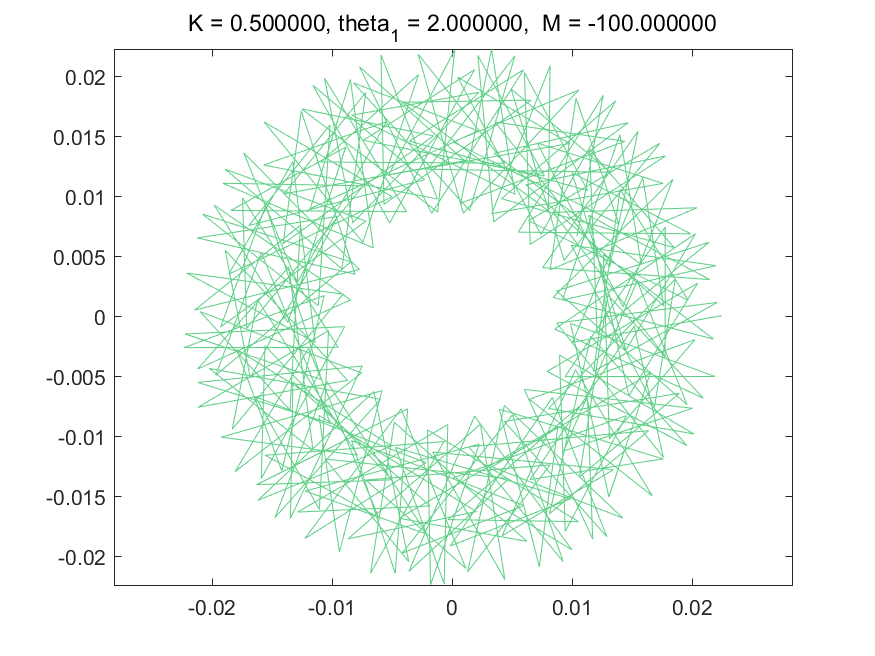
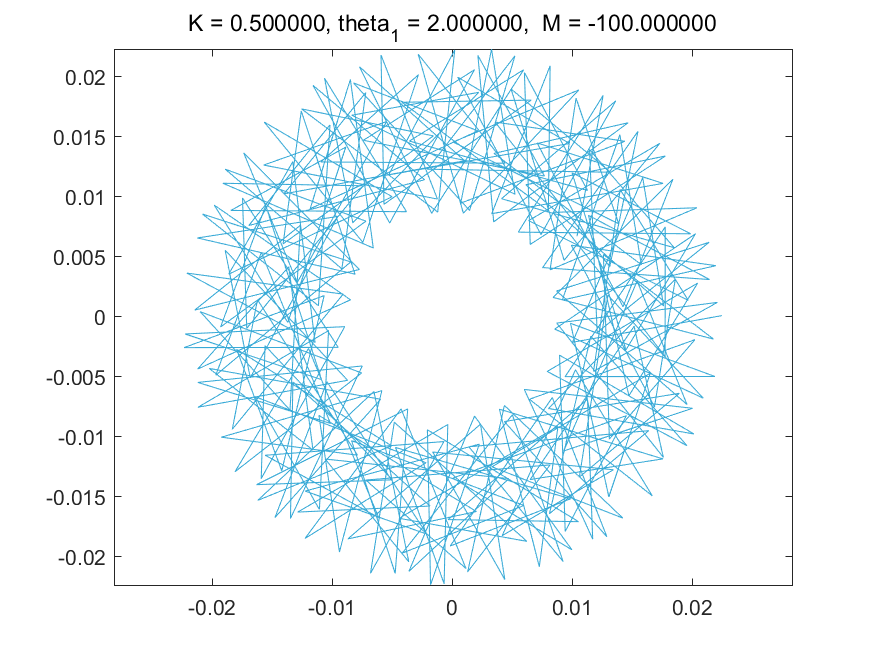
add more patterns

Changed region(s): [[0.216, 0.0915, 0.8331, 0.8841]]

diff --git a/risley_prisms_demo6.m b/risley_prisms_demo6.m
@@ -1,22 +1,24 @@
 close all;
 theta1 = 2.0 * pi / 180;
 KK = [0.2, 0.5, 1.0, 1.2, 2.5, 5, 10, 15, 20, 30];
-M = -100;
+MM= [-100, -50, -30, -5, -3, -2, -1, 1, 2, 3, 5, 30, 50, 100];
 delta_alpha = 0;
 
-
+fig = figure;
 for i = 1 : length(KK)
-    K = KK(i);
-   fig = figure;
-   [x, y] = risley_prisms(theta1, K, M, delta_alpha); 
-   plot(x, y, 'color', rand(1, 3));
-    hold off;
-    axis equal;
-    stitle = sprintf('K = %f, theta_1 = %f,  M = %f', K, theta1 * 180 / pi,  M);
-    title(stitle)
-    
-    filename = sprintf('K = %f, theta_1 = %f, M = %f.png', K, theta1 * 180 / pi, M);
-    saveas(fig, filename)
+    for j = 1 : length(MM)
+        K = KK(i);
+        M = MM(j);
+        [x, y] = risley_prisms(theta1, K, M, delta_alpha); 
+        plot(x, y, 'color', rand(1, 3));
+        hold off;
+        axis equal;
+        stitle = sprintf('K = %f, theta_1 = %f,  M = %f', K, theta1 * 180 / pi,  M);
+        title(stitle)
+        
+        filename = sprintf('data/K = %f, theta_1 = %f, M = %f.png', K, theta1 * 180 / pi, M);
+        saveas(fig, filename)
+    end
 end
 
 
